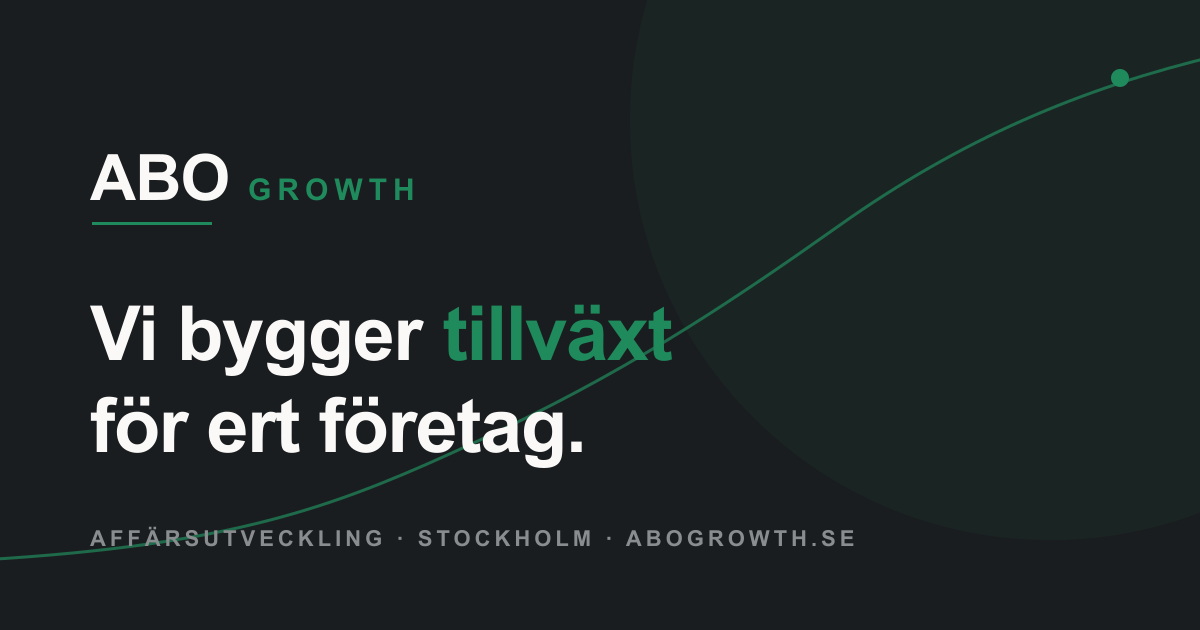
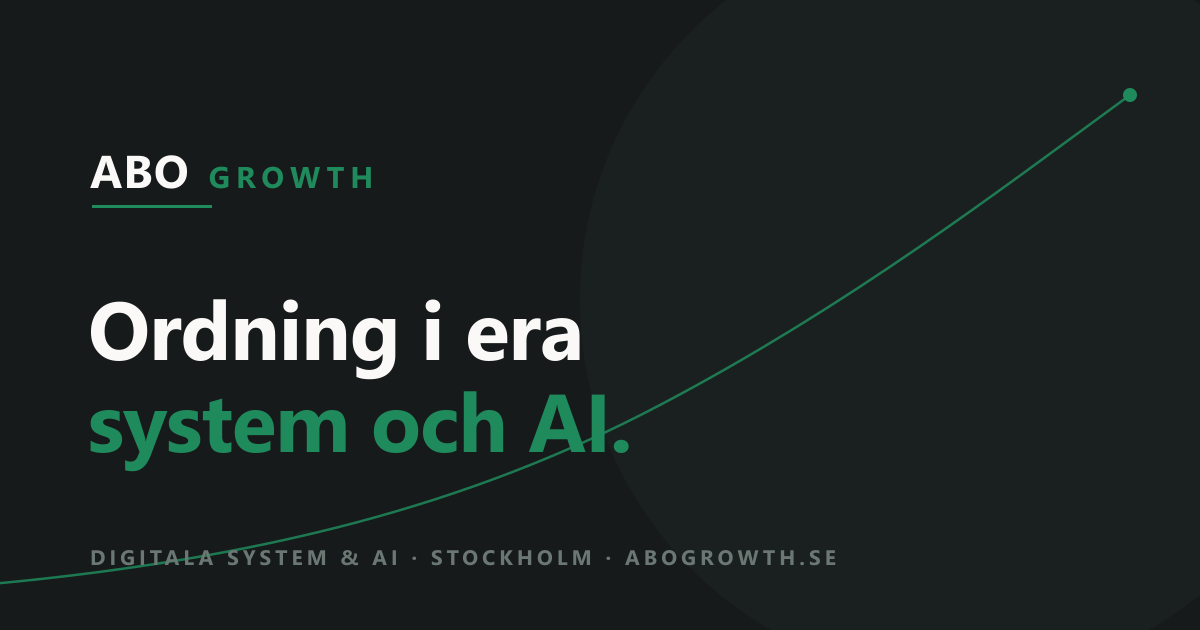
Lanseringsförb: ny OG-delningsbild + Pris i nav, hittbarhet i footern
OG/LinkedIn-delningskort: gamla og.png sa "Vi bygger tillväxt för ert
företag" (gammal positionering) — det är bilden som visas när länken
delas. Ny og.png renderad med sharp i samma bildspråk: "Ordning i era
system och AI." + "DIGITALA SYSTEM & AI · STOCKHOLM · ABOGROWTH.SE".
og:image/twitter:image cache-bustade (?v=2) så LinkedIn hämtar den nya.

Hittbarhet/konvertering:
- Toppmenyn: tomma Case-sidan ersatt av "Pris" (prisverktyget är ett
  starkt konverteringsverktyg; tom Case-sida på lanseringsdagen är en
  trovärdighetsrisk). Case finns kvar i footern.
- Footern: Prisuppskattning + Boka ett samtal tillagda i Sidor-listan.

Verifierat: nav = Tjänster/Pris/Arbetssätt/Om + Boka-knapp; footer har
Pris/Boka/Case; ny og.png visuellt bekräftad; tsc rent.

diff --git a/src/components/Site.tsx b/src/components/Site.tsx
@@ -101,7 +101,7 @@ export const BOOKING_TO = "/boka";
 
 const NAV_LINKS = [
   { label: "Tjänster", to: "/", hash: "tjanster" },
-  { label: "Case", to: "/case" },
+  { label: "Pris", to: "/pris" },
   { label: "Arbetssätt", to: "/", hash: "arbetssatt" },
   { label: "Om", to: "/om" },
 ] as const;
@@ -202,9 +202,11 @@ export function Footer() {
             <li><Link to="/tjanster/digitala-system-ai" className="hover:text-paper">Digitala system & AI</Link></li>
             <li><Link to="/tjanster/affarsutveckling" className="hover:text-paper">Affärsutveckling</Link></li>
             <li><Link to="/tjanster/optimerade-kampanjer" className="hover:text-paper">Optimerade kampanjer</Link></li>
-            <li><Link to="/case" className="hover:text-paper">Case</Link></li>
+            <li><Link to="/pris" className="hover:text-paper">Prisuppskattning</Link></li>
+            <li><Link to="/boka" className="hover:text-paper">Boka ett samtal</Link></li>
             <li><Link to="/om" className="hover:text-paper">Om</Link></li>
             <li><Link to="/sa-gar-det-till" className="hover:text-paper">Så går det till</Link></li>
+            <li><Link to="/case" className="hover:text-paper">Case</Link></li>
             <li><Link to="/" hash="kontakt" className="hover:text-paper">Kontakt</Link></li>
           </ul>
         </div>

diff --git a/src/routes/__root.tsx b/src/routes/__root.tsx
@@ -91,12 +91,12 @@ export const Route = createRootRouteWithContext<{ queryClient: QueryClient }>()(
       { property: "og:description", content: "Få koll på era digitala system och AI-verktyg. Struktur och ordning, från Stockholm." },
       { property: "og:type", content: "website" },
       { property: "og:locale", content: "sv_SE" },
-      { property: "og:image", content: "https://abogrowth.se/og.png" },
+      { property: "og:image", content: "https://abogrowth.se/og.png?v=2" },
       { property: "og:image:width", content: "1200" },
       { property: "og:image:height", content: "630" },
       { property: "og:image:alt", content: "ABO Growth: Ordning i era digitala system och AI" },
       { name: "twitter:card", content: "summary_large_image" },
-      { name: "twitter:image", content: "https://abogrowth.se/og.png" },
+      { name: "twitter:image", content: "https://abogrowth.se/og.png?v=2" },
     ],
     links: [
       {